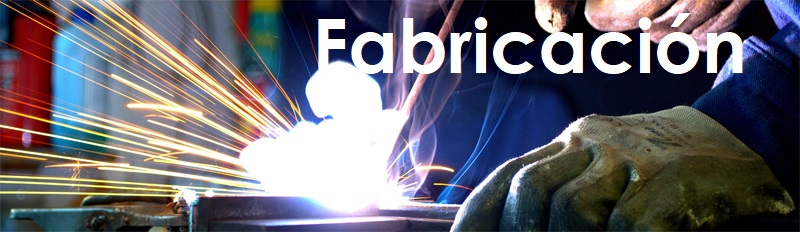
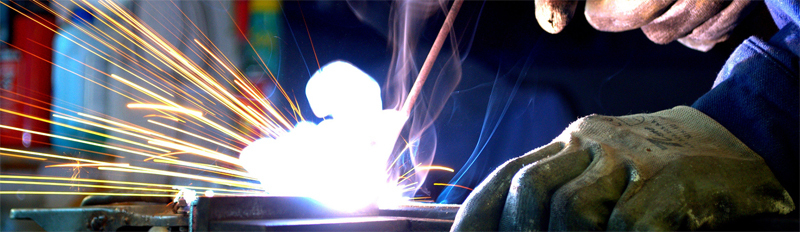
actualizacion

diff --git a/scss/_section.scss b/scss/_section.scss
@@ -42,11 +42,12 @@ table ul {
     color: skyblue;
     font-size: 25px;
     font-family: 'Poppins', sans-serif;
-    width: 100%;
+    width: 34%;
     
 }
 .accordion-item button img {
-    height: 10rem;
+    width: 100%;
+
 }
 .accordion-body {
     font-family: 'Poppins', sans-serif;

diff --git a/css/style.css b/css/style.css
@@ -138,10 +138,10 @@ table ul {
   color: skyblue;
   font-size: 25px;
   font-family: 'Poppins', sans-serif;
-  width: 100%; }
+  width: 34%; }
 
 .accordion-item button img {
-  height: 10rem; }
+  width: 100%; }
 
 .accordion-body {
   font-family: 'Poppins', sans-serif;
